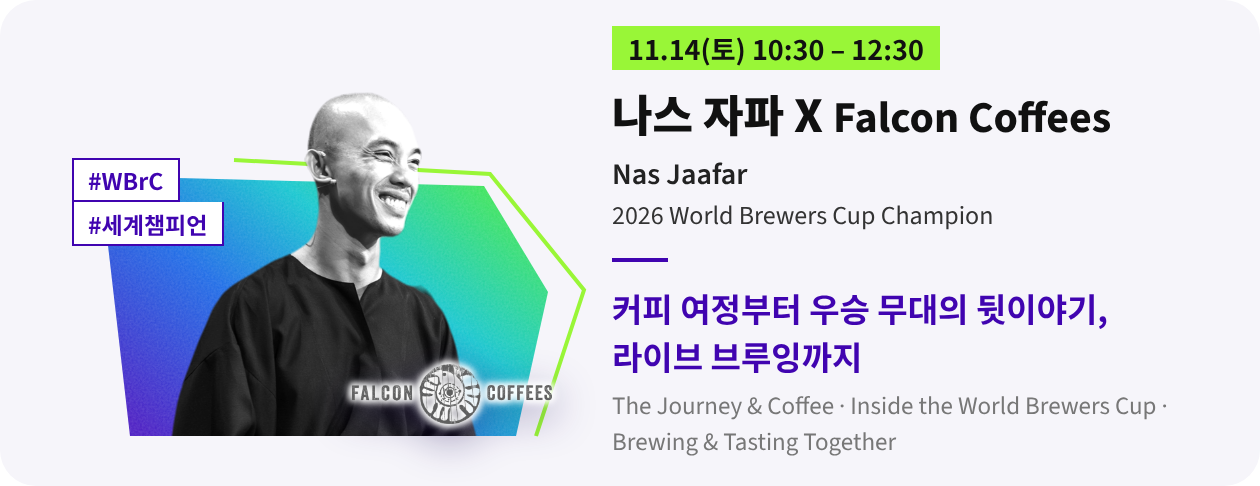
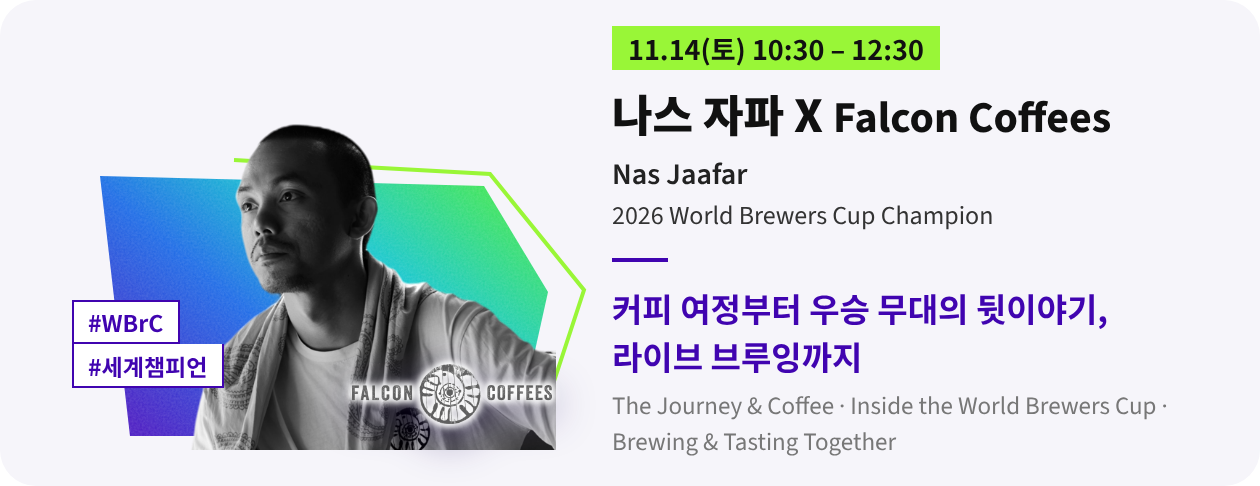
vol05: 진행 단계를 Vol.4 카드 톤(STEP 태그·보라 제목·영문·세로선)으로 재디자인, 문구 해요체로 통일, 나스 자파 카드 사진 교체
Claude-Session: https://claude.ai/code/session_01P7E1LS9QibDrnKTf98zr8S

Changed region(s): [[0.0619, 0.1852, 0.4643, 0.9259]]

diff --git a/emails/vol05.html b/emails/vol05.html
@@ -18,7 +18,7 @@
 <tr><td style="font-size:0;text-align:center;padding:16px 11px 4px;"><div style="display:inline-block;vertical-align:top;width:50.00%;box-sizing:border-box;padding:0 4px;"><div style="background:#F6F5FA;border-radius:18px;padding:8px 8px 14px;text-align:left;font-family:AppleSDGothic, apple sd gothic neo, noto sans korean, noto sans korean regular, noto sans cjk kr, noto sans cjk, nanum gothic, malgun gothic, dotum, arial, helvetica, MS Gothic, sans-serif;word-break:keep-all;"><img src="https://jongabaek.github.io/wcf.newsletter/assets/vol05/champion_george.jpg" width="290" alt="2025 WBrC 챔피언 조지 진양 펭" style="display:block;width:100%;height:auto;border:0;border-radius:12px;"><div style="padding:12px 8px 0;"><div style="border-left:2px solid #4004b0;padding-left:10px;"><span style="display:inline-block;background:#99F637;padding:2px 8px;font-size:12px;line-height:1.5;color:#111111;"><b>2025 WBrC 챔피언</b></span><p style="margin:7px 0 0;font-size:16px;line-height:1.35;color:#111111;"><b>조지 진양 펭</b></p><p style="margin:2px 0 0;font-size:12px;line-height:1.4;color:#555555;">George Jinyang Peng</p></div></div></div></div><div style="display:inline-block;vertical-align:top;width:50.00%;box-sizing:border-box;padding:0 4px;"><div style="background:#F6F5FA;border-radius:18px;padding:8px 8px 14px;text-align:left;font-family:AppleSDGothic, apple sd gothic neo, noto sans korean, noto sans korean regular, noto sans cjk kr, noto sans cjk, nanum gothic, malgun gothic, dotum, arial, helvetica, MS Gothic, sans-serif;word-break:keep-all;"><img src="https://jongabaek.github.io/wcf.newsletter/assets/vol05/champion_mikael.jpg" width="290" alt="2024 WBC 챔피언 미카엘 자신" style="display:block;width:100%;height:auto;border:0;border-radius:12px;"><div style="padding:12px 8px 0;"><div style="border-left:2px solid #4004b0;padding-left:10px;"><span style="display:inline-block;background:#99F637;padding:2px 8px;font-size:12px;line-height:1.5;color:#111111;"><b>2024 WBC 챔피언</b></span><p style="margin:7px 0 0;font-size:16px;line-height:1.35;color:#111111;"><b>미카엘 자신</b></p><p style="margin:2px 0 0;font-size:12px;line-height:1.4;color:#555555;">Mikael Jasin</p></div></div></div></div></td></tr>
 <tr><td style="padding:15px 15px 1px;font-family:AppleSDGothic, apple sd gothic neo, noto sans korean, noto sans korean regular, noto sans cjk kr, noto sans cjk, nanum gothic, malgun gothic, dotum, arial, helvetica, MS Gothic, sans-serif;color:#000000;word-break:keep-all;overflow-wrap:break-word;"><p style="margin:0 0 14px;text-align:center;font-size:16px;line-height:1.7;">챔피언이 직접 커피를 해석하고 추출하는 과정을 눈앞에서 보고,<br>그 한 잔을 함께 맛보는 시간입니다. ☕</p></td></tr>
 <tr><td style="padding:0 15px;font-family:AppleSDGothic, apple sd gothic neo, noto sans korean, noto sans korean regular, noto sans cjk kr, noto sans cjk, nanum gothic, malgun gothic, dotum, arial, helvetica, MS Gothic, sans-serif;color:#000000;word-break:keep-all;overflow-wrap:break-word;"><img src="https://jongabaek.github.io/wcf.newsletter/assets/vol05/card_champion.png" width="630" alt="나스 자파 X Falcon Coffees · 11.14(토) 10:30–12:30" style="display:block;width:100%;max-width:100%;height:auto;border:0;"></td></tr>
-<tr><td style="padding:6px 15px 10px;font-family:AppleSDGothic, apple sd gothic neo, noto sans korean, noto sans korean regular, noto sans cjk kr, noto sans cjk, nanum gothic, malgun gothic, dotum, arial, helvetica, MS Gothic, sans-serif;color:#000000;word-break:keep-all;overflow-wrap:break-word;"><div style="background:#F6F5FA;border-radius:18px;padding:16px 18px;"><p style="margin:0 0 6px;font-size:15px;line-height:1.5;color:#111111;"><b>세션은 이렇게 진행돼요</b></p><table role="presentation" width="100%" cellpadding="0" cellspacing="0"><tr><td width="52" style="width:52px;padding:12px 0;vertical-align:top;"><div style="width:40px;height:40px;line-height:40px;border-radius:50%;background:#99F637;text-align:center;font-family:AppleSDGothic, apple sd gothic neo, noto sans korean, noto sans korean regular, noto sans cjk kr, noto sans cjk, nanum gothic, malgun gothic, dotum, arial, helvetica, MS Gothic, sans-serif;font-size:15px;color:#111111;"><b>01</b></div></td><td style="padding:12px 0;vertical-align:top;font-family:AppleSDGothic, apple sd gothic neo, noto sans korean, noto sans korean regular, noto sans cjk kr, noto sans cjk, nanum gothic, malgun gothic, dotum, arial, helvetica, MS Gothic, sans-serif;word-break:keep-all;"><p style="margin:0 0 4px;font-size:16px;line-height:1.45;color:#4004b0;"><b>The Journey &amp; Coffee</b></p><p style="margin:0;font-size:14px;line-height:1.7;color:#333333;">커피를 시작한 이야기와 Falcon Coffees에서의 일,<br>브루잉과 생두를 함께 다룬 경험이 대회 여정에 미친 영향.</p></td></tr><tr><td width="52" style="width:52px;padding:12px 0;vertical-align:top;"><div style="width:40px;height:40px;line-height:40px;border-radius:50%;background:#99F637;text-align:center;font-family:AppleSDGothic, apple sd gothic neo, noto sans korean, noto sans korean regular, noto sans cjk kr, noto sans cjk, nanum gothic, malgun gothic, dotum, arial, helvetica, MS Gothic, sans-serif;font-size:15px;color:#111111;"><b>02</b></div></td><td style="padding:12px 0;vertical-align:top;font-family:AppleSDGothic, apple sd gothic neo, noto sans korean, noto sans korean regular, noto sans cjk kr, noto sans cjk, nanum gothic, malgun gothic, dotum, arial, helvetica, MS Gothic, sans-serif;word-break:keep-all;"><p style="margin:0 0 4px;font-size:16px;line-height:1.45;color:#4004b0;"><b>Inside the World Brewers Cup</b></p><p style="margin:0;font-size:14px;line-height:1.7;color:#333333;">우승 프레젠테이션의 콘셉트 'Resistance'에 담긴 생각,<br>세계 무대를 위한 준비 과정과 그 경험에서 얻은 가장 큰 배움.</p></td></tr><tr><td width="52" style="width:52px;padding:12px 0;vertical-align:top;"><div style="width:40px;height:40px;line-height:40px;border-radius:50%;background:#99F637;text-align:center;font-family:AppleSDGothic, apple sd gothic neo, noto sans korean, noto sans korean regular, noto sans cjk kr, noto sans cjk, nanum gothic, malgun gothic, dotum, arial, helvetica, MS Gothic, sans-serif;font-size:15px;color:#111111;"><b>03</b></div></td><td style="padding:12px 0;vertical-align:top;font-family:AppleSDGothic, apple sd gothic neo, noto sans korean, noto sans korean regular, noto sans cjk kr, noto sans cjk, nanum gothic, malgun gothic, dotum, arial, helvetica, MS Gothic, sans-serif;word-break:keep-all;"><p style="margin:0 0 4px;font-size:16px;line-height:1.45;color:#4004b0;"><b>Brewing &amp; Tasting Together</b></p><p style="margin:0;font-size:14px;line-height:1.7;color:#333333;">Falcon Korea의 현재 라인업 중 한 가지 커피를 골라<br>추출 방향을 잡는 과정을 설명하고, 라이브 브루잉과<br>가이드 테이스팅, 관객과의 대화로 이어집니다.</p></td></tr></table></div></td></tr>
+<tr><td style="padding:6px 15px 10px;font-family:AppleSDGothic, apple sd gothic neo, noto sans korean, noto sans korean regular, noto sans cjk kr, noto sans cjk, nanum gothic, malgun gothic, dotum, arial, helvetica, MS Gothic, sans-serif;color:#000000;word-break:keep-all;overflow-wrap:break-word;"><div style="background:#F6F5FA;border-radius:18px;padding:22px 22px 8px;"><p style="margin:0 0 2px;font-family:AppleSDGothic, apple sd gothic neo, noto sans korean, noto sans korean regular, noto sans cjk kr, noto sans cjk, nanum gothic, malgun gothic, dotum, arial, helvetica, MS Gothic, sans-serif;font-size:18px;line-height:1.4;color:#111111;"><b>세션은 이렇게 진행돼요</b></p><div style="width:28px;height:2px;background:#4004b0;margin:10px 0 2px;"></div><table role="presentation" width="100%" cellpadding="0" cellspacing="0"><tr><td style="padding:16px 0;font-family:AppleSDGothic, apple sd gothic neo, noto sans korean, noto sans korean regular, noto sans cjk kr, noto sans cjk, nanum gothic, malgun gothic, dotum, arial, helvetica, MS Gothic, sans-serif;word-break:keep-all;"><div style="border-left:2px solid #4004b0;padding-left:14px;"><span style="display:inline-block;background:#99F637;padding:2px 8px;font-size:12px;line-height:1.5;color:#111111;"><b>STEP 01</b></span><p style="margin:8px 0 0;font-size:17px;line-height:1.4;color:#4004b0;"><b>나스 자파의 커피 여정</b></p><p style="margin:2px 0 0;font-size:12.5px;line-height:1.4;color:#777777;">The Journey &amp; Coffee</p><p style="margin:8px 0 0;font-size:14px;line-height:1.7;color:#333333;">Falcon Coffees에서 브루잉과 생두를 함께 다뤄 온 경험이 세계 무대까지 이어진 이야기를 들려드려요.</p></div></td></tr><tr><td style="padding:16px 0;border-top:1px solid #DCD8E8;font-family:AppleSDGothic, apple sd gothic neo, noto sans korean, noto sans korean regular, noto sans cjk kr, noto sans cjk, nanum gothic, malgun gothic, dotum, arial, helvetica, MS Gothic, sans-serif;word-break:keep-all;"><div style="border-left:2px solid #4004b0;padding-left:14px;"><span style="display:inline-block;background:#99F637;padding:2px 8px;font-size:12px;line-height:1.5;color:#111111;"><b>STEP 02</b></span><p style="margin:8px 0 0;font-size:17px;line-height:1.4;color:#4004b0;"><b>우승 무대의 안쪽</b></p><p style="margin:2px 0 0;font-size:12.5px;line-height:1.4;color:#777777;">Inside the World Brewers Cup</p><p style="margin:8px 0 0;font-size:14px;line-height:1.7;color:#333333;">우승 프레젠테이션의 콘셉트 'Resistance'에 담긴 생각과 세계 무대를 준비하며 얻은 배움을 나눠요.</p></div></td></tr><tr><td style="padding:16px 0;border-top:1px solid #DCD8E8;font-family:AppleSDGothic, apple sd gothic neo, noto sans korean, noto sans korean regular, noto sans cjk kr, noto sans cjk, nanum gothic, malgun gothic, dotum, arial, helvetica, MS Gothic, sans-serif;word-break:keep-all;"><div style="border-left:2px solid #4004b0;padding-left:14px;"><span style="display:inline-block;background:#99F637;padding:2px 8px;font-size:12px;line-height:1.5;color:#111111;"><b>STEP 03</b></span><p style="margin:8px 0 0;font-size:17px;line-height:1.4;color:#4004b0;"><b>함께 내리고, 함께 맛보기</b></p><p style="margin:2px 0 0;font-size:12.5px;line-height:1.4;color:#777777;">Brewing &amp; Tasting Together</p><p style="margin:8px 0 0;font-size:14px;line-height:1.7;color:#333333;">Falcon Korea의 커피 한 가지로 추출 방향을 잡는 과정부터 라이브 브루잉, 가이드 테이스팅까지 함께해요.</p></div></td></tr></table></div></td></tr>
 <tr><td style="padding:20px 15px 15px;font-family:AppleSDGothic, apple sd gothic neo, noto sans korean, noto sans korean regular, noto sans cjk kr, noto sans cjk, nanum gothic, malgun gothic, dotum, arial, helvetica, MS Gothic, sans-serif;color:#000000;word-break:keep-all;overflow-wrap:break-word;"><table role="presentation" align="center" cellpadding="0" cellspacing="0" style="margin:0 auto;border-collapse:separate;"><tr><td align="center" style="background:#4004b0;border-radius:500px;"><a href="https://wclforum.org/kr/program/champion.asp" target="_blank" style="display:inline-block;padding:19px 24px;font-family:AppleSDGothic, apple sd gothic neo, noto sans korean, noto sans korean regular, noto sans cjk kr, noto sans cjk, nanum gothic, malgun gothic, dotum, arial, helvetica, MS Gothic, sans-serif;font-size:16px;line-height:1;color:#ffffff;text-decoration:none;">챔피언 라이브 자세히 보기</a></td></tr></table></td></tr>
 <tr><td style="padding:0 15px;font-family:AppleSDGothic, apple sd gothic neo, noto sans korean, noto sans korean regular, noto sans cjk kr, noto sans cjk, nanum gothic, malgun gothic, dotum, arial, helvetica, MS Gothic, sans-serif;color:#000000;word-break:keep-all;overflow-wrap:break-word;"><table role="presentation" width="100%" cellpadding="0" cellspacing="0" style="width:100%;max-width:100%;"><tr><td class="ph" height="200" style="height:200px;background:#F1ECFF;border:2px dashed #B7A4F0;text-align:center;vertical-align:middle;font-family:AppleSDGothic, apple sd gothic neo, noto sans korean, noto sans korean regular, noto sans cjk kr, noto sans cjk, nanum gothic, malgun gothic, dotum, arial, helvetica, MS Gothic, sans-serif;font-size:13px;line-height:1.6;color:#4004b0;padding:12px;"><b>IMAGE</b><br>스폰서 배너 (600px 폭, Vol.4와 같은 위치)</td></tr></table></td></tr>
 <tr><td style="padding:0;font-family:AppleSDGothic, apple sd gothic neo, noto sans korean, noto sans korean regular, noto sans cjk kr, noto sans cjk, nanum gothic, malgun gothic, dotum, arial, helvetica, MS Gothic, sans-serif;color:#000000;word-break:keep-all;overflow-wrap:break-word;"><img src="https://img2.stibee.com/14802_3571771_1788147093764633846.gif" width="630" alt="" style="display:block;width:100%;max-width:100%;height:auto;border:0;"></td></tr>

diff --git a/stibee/vol05.html b/stibee/vol05.html
@@ -11,7 +11,7 @@
 <tr><td style="font-size:0;text-align:center;padding:16px 11px 4px;"><div style="display:inline-block;vertical-align:top;width:50.00%;box-sizing:border-box;padding:0 4px;"><div style="background:#F6F5FA;border-radius:18px;padding:8px 8px 14px;text-align:left;font-family:AppleSDGothic, apple sd gothic neo, noto sans korean, noto sans korean regular, noto sans cjk kr, noto sans cjk, nanum gothic, malgun gothic, dotum, arial, helvetica, MS Gothic, sans-serif;word-break:keep-all;"><img src="https://jongabaek.github.io/wcf.newsletter/assets/vol05/champion_george.jpg" width="290" alt="2025 WBrC 챔피언 조지 진양 펭" style="display:block;width:100%;height:auto;border:0;border-radius:12px;"><div style="padding:12px 8px 0;"><div style="border-left:2px solid #4004b0;padding-left:10px;"><span style="display:inline-block;background:#99F637;padding:2px 8px;font-size:12px;line-height:1.5;color:#111111;"><b>2025 WBrC 챔피언</b></span><p style="margin:7px 0 0;font-size:16px;line-height:1.35;color:#111111;"><b>조지 진양 펭</b></p><p style="margin:2px 0 0;font-size:12px;line-height:1.4;color:#555555;">George Jinyang Peng</p></div></div></div></div><div style="display:inline-block;vertical-align:top;width:50.00%;box-sizing:border-box;padding:0 4px;"><div style="background:#F6F5FA;border-radius:18px;padding:8px 8px 14px;text-align:left;font-family:AppleSDGothic, apple sd gothic neo, noto sans korean, noto sans korean regular, noto sans cjk kr, noto sans cjk, nanum gothic, malgun gothic, dotum, arial, helvetica, MS Gothic, sans-serif;word-break:keep-all;"><img src="https://jongabaek.github.io/wcf.newsletter/assets/vol05/champion_mikael.jpg" width="290" alt="2024 WBC 챔피언 미카엘 자신" style="display:block;width:100%;height:auto;border:0;border-radius:12px;"><div style="padding:12px 8px 0;"><div style="border-left:2px solid #4004b0;padding-left:10px;"><span style="display:inline-block;background:#99F637;padding:2px 8px;font-size:12px;line-height:1.5;color:#111111;"><b>2024 WBC 챔피언</b></span><p style="margin:7px 0 0;font-size:16px;line-height:1.35;color:#111111;"><b>미카엘 자신</b></p><p style="margin:2px 0 0;font-size:12px;line-height:1.4;color:#555555;">Mikael Jasin</p></div></div></div></div></td></tr>
 <tr><td style="padding:15px 15px 1px;font-family:AppleSDGothic, apple sd gothic neo, noto sans korean, noto sans korean regular, noto sans cjk kr, noto sans cjk, nanum gothic, malgun gothic, dotum, arial, helvetica, MS Gothic, sans-serif;color:#000000;word-break:keep-all;overflow-wrap:break-word;"><p style="margin:0 0 14px;text-align:center;font-size:16px;line-height:1.7;">챔피언이 직접 커피를 해석하고 추출하는 과정을 눈앞에서 보고,<br>그 한 잔을 함께 맛보는 시간입니다. ☕</p></td></tr>
 <tr><td style="padding:0 15px;font-family:AppleSDGothic, apple sd gothic neo, noto sans korean, noto sans korean regular, noto sans cjk kr, noto sans cjk, nanum gothic, malgun gothic, dotum, arial, helvetica, MS Gothic, sans-serif;color:#000000;word-break:keep-all;overflow-wrap:break-word;"><img src="https://jongabaek.github.io/wcf.newsletter/assets/vol05/card_champion.png" width="630" alt="나스 자파 X Falcon Coffees · 11.14(토) 10:30–12:30" style="display:block;width:100%;max-width:100%;height:auto;border:0;"></td></tr>
-<tr><td style="padding:6px 15px 10px;font-family:AppleSDGothic, apple sd gothic neo, noto sans korean, noto sans korean regular, noto sans cjk kr, noto sans cjk, nanum gothic, malgun gothic, dotum, arial, helvetica, MS Gothic, sans-serif;color:#000000;word-break:keep-all;overflow-wrap:break-word;"><div style="background:#F6F5FA;border-radius:18px;padding:16px 18px;"><p style="margin:0 0 6px;font-size:15px;line-height:1.5;color:#111111;"><b>세션은 이렇게 진행돼요</b></p><table role="presentation" width="100%" cellpadding="0" cellspacing="0"><tr><td width="52" style="width:52px;padding:12px 0;vertical-align:top;"><div style="width:40px;height:40px;line-height:40px;border-radius:50%;background:#99F637;text-align:center;font-family:AppleSDGothic, apple sd gothic neo, noto sans korean, noto sans korean regular, noto sans cjk kr, noto sans cjk, nanum gothic, malgun gothic, dotum, arial, helvetica, MS Gothic, sans-serif;font-size:15px;color:#111111;"><b>01</b></div></td><td style="padding:12px 0;vertical-align:top;font-family:AppleSDGothic, apple sd gothic neo, noto sans korean, noto sans korean regular, noto sans cjk kr, noto sans cjk, nanum gothic, malgun gothic, dotum, arial, helvetica, MS Gothic, sans-serif;word-break:keep-all;"><p style="margin:0 0 4px;font-size:16px;line-height:1.45;color:#4004b0;"><b>The Journey &amp; Coffee</b></p><p style="margin:0;font-size:14px;line-height:1.7;color:#333333;">커피를 시작한 이야기와 Falcon Coffees에서의 일,<br>브루잉과 생두를 함께 다룬 경험이 대회 여정에 미친 영향.</p></td></tr><tr><td width="52" style="width:52px;padding:12px 0;vertical-align:top;"><div style="width:40px;height:40px;line-height:40px;border-radius:50%;background:#99F637;text-align:center;font-family:AppleSDGothic, apple sd gothic neo, noto sans korean, noto sans korean regular, noto sans cjk kr, noto sans cjk, nanum gothic, malgun gothic, dotum, arial, helvetica, MS Gothic, sans-serif;font-size:15px;color:#111111;"><b>02</b></div></td><td style="padding:12px 0;vertical-align:top;font-family:AppleSDGothic, apple sd gothic neo, noto sans korean, noto sans korean regular, noto sans cjk kr, noto sans cjk, nanum gothic, malgun gothic, dotum, arial, helvetica, MS Gothic, sans-serif;word-break:keep-all;"><p style="margin:0 0 4px;font-size:16px;line-height:1.45;color:#4004b0;"><b>Inside the World Brewers Cup</b></p><p style="margin:0;font-size:14px;line-height:1.7;color:#333333;">우승 프레젠테이션의 콘셉트 'Resistance'에 담긴 생각,<br>세계 무대를 위한 준비 과정과 그 경험에서 얻은 가장 큰 배움.</p></td></tr><tr><td width="52" style="width:52px;padding:12px 0;vertical-align:top;"><div style="width:40px;height:40px;line-height:40px;border-radius:50%;background:#99F637;text-align:center;font-family:AppleSDGothic, apple sd gothic neo, noto sans korean, noto sans korean regular, noto sans cjk kr, noto sans cjk, nanum gothic, malgun gothic, dotum, arial, helvetica, MS Gothic, sans-serif;font-size:15px;color:#111111;"><b>03</b></div></td><td style="padding:12px 0;vertical-align:top;font-family:AppleSDGothic, apple sd gothic neo, noto sans korean, noto sans korean regular, noto sans cjk kr, noto sans cjk, nanum gothic, malgun gothic, dotum, arial, helvetica, MS Gothic, sans-serif;word-break:keep-all;"><p style="margin:0 0 4px;font-size:16px;line-height:1.45;color:#4004b0;"><b>Brewing &amp; Tasting Together</b></p><p style="margin:0;font-size:14px;line-height:1.7;color:#333333;">Falcon Korea의 현재 라인업 중 한 가지 커피를 골라<br>추출 방향을 잡는 과정을 설명하고, 라이브 브루잉과<br>가이드 테이스팅, 관객과의 대화로 이어집니다.</p></td></tr></table></div></td></tr>
+<tr><td style="padding:6px 15px 10px;font-family:AppleSDGothic, apple sd gothic neo, noto sans korean, noto sans korean regular, noto sans cjk kr, noto sans cjk, nanum gothic, malgun gothic, dotum, arial, helvetica, MS Gothic, sans-serif;color:#000000;word-break:keep-all;overflow-wrap:break-word;"><div style="background:#F6F5FA;border-radius:18px;padding:22px 22px 8px;"><p style="margin:0 0 2px;font-family:AppleSDGothic, apple sd gothic neo, noto sans korean, noto sans korean regular, noto sans cjk kr, noto sans cjk, nanum gothic, malgun gothic, dotum, arial, helvetica, MS Gothic, sans-serif;font-size:18px;line-height:1.4;color:#111111;"><b>세션은 이렇게 진행돼요</b></p><div style="width:28px;height:2px;background:#4004b0;margin:10px 0 2px;"></div><table role="presentation" width="100%" cellpadding="0" cellspacing="0"><tr><td style="padding:16px 0;font-family:AppleSDGothic, apple sd gothic neo, noto sans korean, noto sans korean regular, noto sans cjk kr, noto sans cjk, nanum gothic, malgun gothic, dotum, arial, helvetica, MS Gothic, sans-serif;word-break:keep-all;"><div style="border-left:2px solid #4004b0;padding-left:14px;"><span style="display:inline-block;background:#99F637;padding:2px 8px;font-size:12px;line-height:1.5;color:#111111;"><b>STEP 01</b></span><p style="margin:8px 0 0;font-size:17px;line-height:1.4;color:#4004b0;"><b>나스 자파의 커피 여정</b></p><p style="margin:2px 0 0;font-size:12.5px;line-height:1.4;color:#777777;">The Journey &amp; Coffee</p><p style="margin:8px 0 0;font-size:14px;line-height:1.7;color:#333333;">Falcon Coffees에서 브루잉과 생두를 함께 다뤄 온 경험이 세계 무대까지 이어진 이야기를 들려드려요.</p></div></td></tr><tr><td style="padding:16px 0;border-top:1px solid #DCD8E8;font-family:AppleSDGothic, apple sd gothic neo, noto sans korean, noto sans korean regular, noto sans cjk kr, noto sans cjk, nanum gothic, malgun gothic, dotum, arial, helvetica, MS Gothic, sans-serif;word-break:keep-all;"><div style="border-left:2px solid #4004b0;padding-left:14px;"><span style="display:inline-block;background:#99F637;padding:2px 8px;font-size:12px;line-height:1.5;color:#111111;"><b>STEP 02</b></span><p style="margin:8px 0 0;font-size:17px;line-height:1.4;color:#4004b0;"><b>우승 무대의 안쪽</b></p><p style="margin:2px 0 0;font-size:12.5px;line-height:1.4;color:#777777;">Inside the World Brewers Cup</p><p style="margin:8px 0 0;font-size:14px;line-height:1.7;color:#333333;">우승 프레젠테이션의 콘셉트 'Resistance'에 담긴 생각과 세계 무대를 준비하며 얻은 배움을 나눠요.</p></div></td></tr><tr><td style="padding:16px 0;border-top:1px solid #DCD8E8;font-family:AppleSDGothic, apple sd gothic neo, noto sans korean, noto sans korean regular, noto sans cjk kr, noto sans cjk, nanum gothic, malgun gothic, dotum, arial, helvetica, MS Gothic, sans-serif;word-break:keep-all;"><div style="border-left:2px solid #4004b0;padding-left:14px;"><span style="display:inline-block;background:#99F637;padding:2px 8px;font-size:12px;line-height:1.5;color:#111111;"><b>STEP 03</b></span><p style="margin:8px 0 0;font-size:17px;line-height:1.4;color:#4004b0;"><b>함께 내리고, 함께 맛보기</b></p><p style="margin:2px 0 0;font-size:12.5px;line-height:1.4;color:#777777;">Brewing &amp; Tasting Together</p><p style="margin:8px 0 0;font-size:14px;line-height:1.7;color:#333333;">Falcon Korea의 커피 한 가지로 추출 방향을 잡는 과정부터 라이브 브루잉, 가이드 테이스팅까지 함께해요.</p></div></td></tr></table></div></td></tr>
 <tr><td style="padding:20px 15px 15px;font-family:AppleSDGothic, apple sd gothic neo, noto sans korean, noto sans korean regular, noto sans cjk kr, noto sans cjk, nanum gothic, malgun gothic, dotum, arial, helvetica, MS Gothic, sans-serif;color:#000000;word-break:keep-all;overflow-wrap:break-word;"><table role="presentation" align="center" cellpadding="0" cellspacing="0" style="margin:0 auto;border-collapse:separate;"><tr><td align="center" style="background:#4004b0;border-radius:500px;"><a href="https://wclforum.org/kr/program/champion.asp" target="_blank" style="display:inline-block;padding:19px 24px;font-family:AppleSDGothic, apple sd gothic neo, noto sans korean, noto sans korean regular, noto sans cjk kr, noto sans cjk, nanum gothic, malgun gothic, dotum, arial, helvetica, MS Gothic, sans-serif;font-size:16px;line-height:1;color:#ffffff;text-decoration:none;">챔피언 라이브 자세히 보기</a></td></tr></table></td></tr>
 <tr><td style="padding:0 15px;font-family:AppleSDGothic, apple sd gothic neo, noto sans korean, noto sans korean regular, noto sans cjk kr, noto sans cjk, nanum gothic, malgun gothic, dotum, arial, helvetica, MS Gothic, sans-serif;color:#000000;word-break:keep-all;overflow-wrap:break-word;"><table role="presentation" width="100%" cellpadding="0" cellspacing="0" style="width:100%;max-width:100%;"><tr><td class="ph" height="200" style="height:200px;background:#F1ECFF;border:2px dashed #B7A4F0;text-align:center;vertical-align:middle;font-family:AppleSDGothic, apple sd gothic neo, noto sans korean, noto sans korean regular, noto sans cjk kr, noto sans cjk, nanum gothic, malgun gothic, dotum, arial, helvetica, MS Gothic, sans-serif;font-size:13px;line-height:1.6;color:#4004b0;padding:12px;"><b>IMAGE</b><br>스폰서 배너 (600px 폭, Vol.4와 같은 위치)</td></tr></table></td></tr>
 <tr><td style="padding:0;font-family:AppleSDGothic, apple sd gothic neo, noto sans korean, noto sans korean regular, noto sans cjk kr, noto sans cjk, nanum gothic, malgun gothic, dotum, arial, helvetica, MS Gothic, sans-serif;color:#000000;word-break:keep-all;overflow-wrap:break-word;"><img src="https://img2.stibee.com/14802_3571771_1788147093764633846.gif" width="630" alt="" style="display:block;width:100%;max-width:100%;height:auto;border:0;"></td></tr>

diff --git a/CLAUDE.md b/CLAUDE.md
@@ -54,7 +54,7 @@ GitHub Pages에 미리보기 페이지가 올라가 있고, main에 push하면 1
 | photos | 사진 2~3장 가로 배열(둥근 모서리, 모바일에서도 한 줄 유지). `tag`/`name`을 주면 연보라 패널 + 연두 태그 + 보라 세로선 카드형 캡션 | `items: [{src 또는 placeholder, alt, tag, name, sub}]`, `h` |
 | sessions | 날짜별 세션 시간표(로고 + 시간 + 기관/연사) | `days: [{label, items: [{time, name, sub, logo 또는 logo_placeholder, alt}]}]` |
 | explain | 설명 캡션 박스(연보라 패널 + 연두 라벨 제목 + 본문). 용어·프로그램 설명용 | `title`, `text`, `align` |
-| steps | 세션 진행 순서(연두 원 번호 01·02·03 + 제목 + 설명) | `title`, `items: [{title, text}]` |
+| steps | 세션 진행 순서(Vol.4 카드 톤: 연보라 패널, 연두 STEP 태그, 보라 제목, 회색 영문, 보라 세로선) | `title`, `items: [{title, en, text}]` |
 
 이미지가 준비되면 `placeholder`를 지우고 `"src": "https://img2.stibee.com/..."`를 넣습니다
 (스티비에 이미지를 먼저 업로드해 URL을 받습니다).
